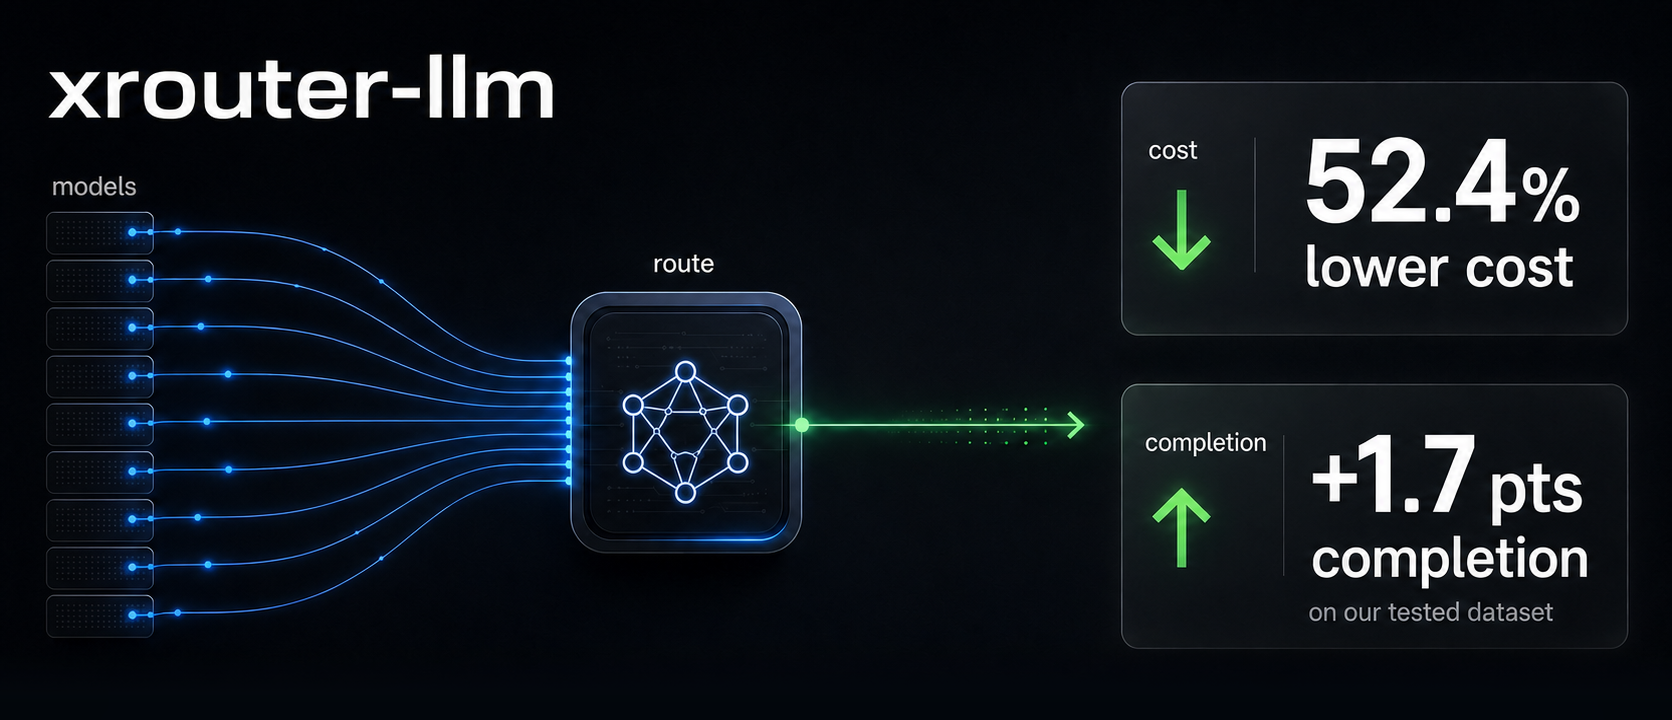
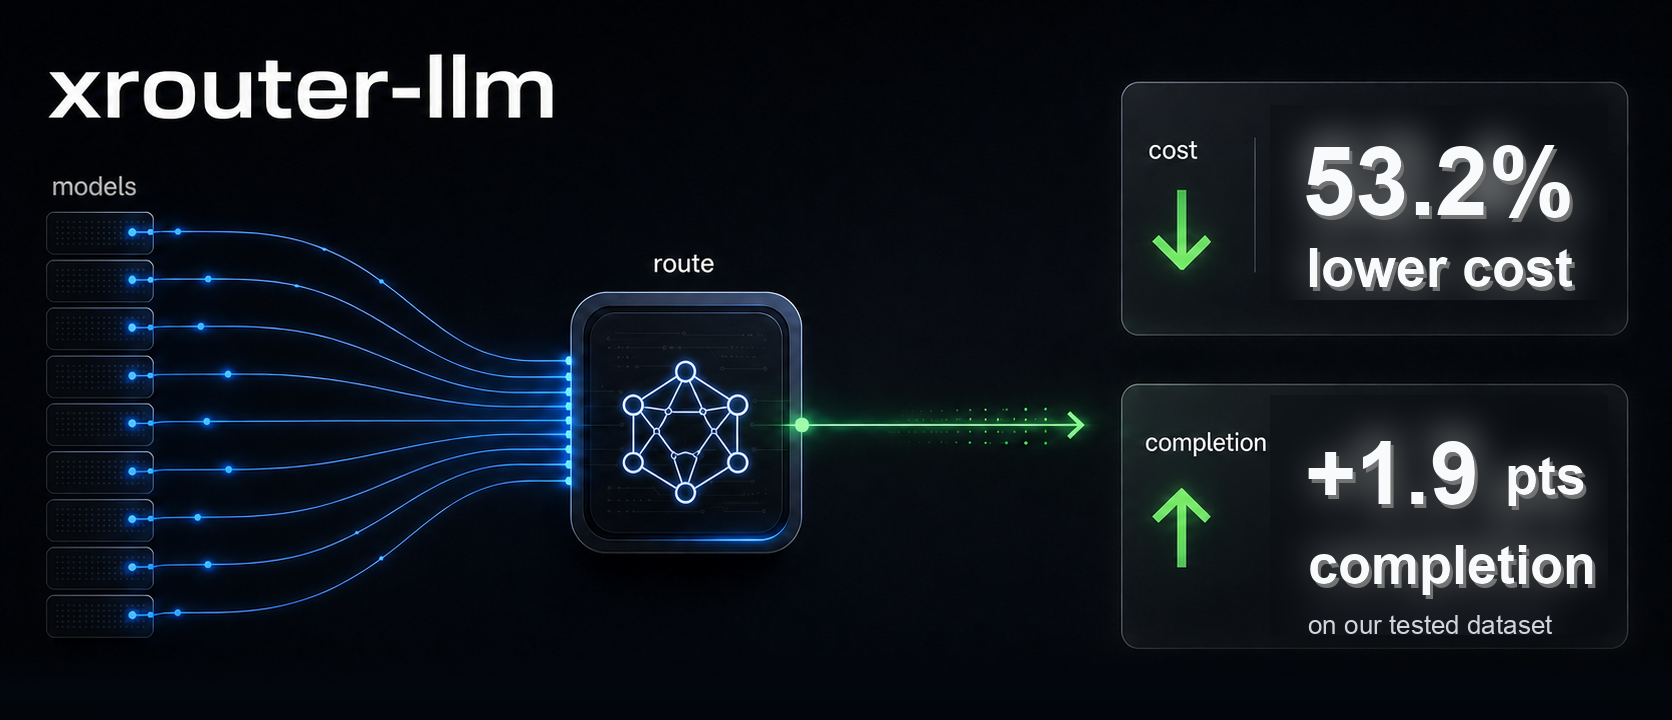
Add xagent labels to router training

Changed region(s): [[0.7775, 0.5806, 0.9641, 0.8861], [0.7775, 0.1833, 0.9641, 0.4278]]

diff --git a/src/xrouter_llm/xagent_labels.py b/src/xrouter_llm/xagent_labels.py
@@ -1,0 +1,123 @@
+from __future__ import annotations
+
+import json
+from pathlib import Path
+from typing import Any, Iterable
+
+from huggingface_hub import hf_hub_download
+
+from xrouter_llm.types import BenchmarkRow
+
+
+DEFAULT_XAGENT_LABEL_REPO = "Xorbits/xagent-xrouter-labels"
+
+XAGENT_LABEL_FILES = {
+    "full": "xagent_openrouter_official_candidates_100_4models.public.jsonl",
+    "train80": "xagent_openrouter_official_candidates_100_4models_train80.public.jsonl",
+    "holdout20": "xagent_openrouter_official_candidates_100_4models_holdout20.public.jsonl",
+    "sample": "xagent_openrouter_official_sample.public.jsonl",
+}
+
+
+def load_xagent_openrouter_labels(
+    source: str | Path = DEFAULT_XAGENT_LABEL_REPO,
+    *,
+    split: str = "full",
+) -> list[BenchmarkRow]:
+    """Load scrubbed xagent routing labels from a local JSONL file or HF dataset.
+
+    The public HF dataset currently contains plain JSONL files. Loading through
+    ``huggingface_hub`` keeps the dependency surface small and avoids relying on
+    a generated datasets schema.
+    """
+
+    path = Path(source).expanduser()
+    if path.exists():
+        return _load_xagent_jsonl(path)
+
+    repo_id, resolved_split = _parse_hf_source(str(source), split=split)
+    filename = XAGENT_LABEL_FILES.get(resolved_split, resolved_split)
+    downloaded = hf_hub_download(repo_id, filename, repo_type="dataset")
+    return _load_xagent_jsonl(Path(downloaded))
+
+
+def _parse_hf_source(source: str, *, split: str) -> tuple[str, str]:
+    if ":" not in source:
+        return source, split
+
+    repo_id, maybe_split = source.rsplit(":", 1)
+    if "/" not in maybe_split:
+        return repo_id, maybe_split
+    return source, split
+
+
+def _load_xagent_jsonl(path: Path) -> list[BenchmarkRow]:
+    output: list[BenchmarkRow] = []
+    for line_number, record in _iter_jsonl(path):
+        score = _score(record, line_number=line_number)
+        prompt = str(record.get("prompt") or "")
+        model_id = str(record.get("candidate_model") or "")
+        if not prompt:
+            raise ValueError(f"Missing prompt in xagent label line {line_number}")
+        if not model_id:
+            raise ValueError(f"Missing candidate_model in xagent label line {line_number}")
+
+        prompt_sha = record.get("prompt_sha256")
+        prompt_id = f"xagent:{prompt_sha}" if prompt_sha else _fallback_prompt_id(record)
+        output.append(
+            BenchmarkRow(
+                prompt_id=prompt_id,
+                prompt=prompt,
+                model_id=model_id,
+                score=score,
+                cost_usd=_usage_cost(record.get("candidate_usage")),
+                task=f"xagent:{record.get('category') or 'unknown'}",
+            )
+        )
+    if not output:
+        raise ValueError(f"No xagent labels loaded from {path}")
+    return output
+
+
+load_xagent_labels = load_xagent_openrouter_labels
+
+
+def _iter_jsonl(path: Path) -> Iterable[tuple[int, dict[str, Any]]]:
+    with path.open("r", encoding="utf-8") as file:
+        for line_number, line in enumerate(file, start=1):
+            line = line.strip()
+            if not line:
+                continue
+            try:
+                value = json.loads(line)
+            except json.JSONDecodeError as exc:
+                raise ValueError(f"Invalid xagent JSONL at line {line_number}: {exc}") from exc
+            if not isinstance(value, dict):
+                raise ValueError(f"Invalid xagent JSONL at line {line_number}: expected object")
+            yield line_number, value
+
+
+def _score(record: dict[str, Any], *, line_number: int) -> float:
+    judge = record.get("judge")
+    if not isinstance(judge, dict) or judge.get("score") is None:
+        raise ValueError(f"Missing judge.score in xagent label line {line_number}")
+    score = float(judge["score"])
+    if not 0.0 <= score <= 1.0:
+        raise ValueError(f"judge.score must be in [0, 1] at line {line_number}: {score}")
+    return score
+
+
+def _fallback_prompt_id(record: dict[str, Any]) -> str:
+    event_id = record.get("event_id", "unknown")
+    end_event_id = record.get("end_event_id", "unknown")
+    category = record.get("category", "unknown")
+    return f"xagent:{event_id}:{end_event_id}:{category}"
+
+
+def _usage_cost(usage: object) -> float | None:
+    if not isinstance(usage, dict):
+        return None
+    value = usage.get("cost")
+    if value is None:
+        return None
+    return float(value)

diff --git a/tests/test_xagent_labels.py b/tests/test_xagent_labels.py
@@ -1,0 +1,64 @@
+import json
+
+from xrouter_llm.xagent_labels import load_xagent_openrouter_labels
+
+
+def test_load_xagent_labels_from_local_jsonl(tmp_path) -> None:
+    path = tmp_path / "xagent.public.jsonl"
+    path.write_text(
+        "\n".join(
+            json.dumps(record)
+            for record in [
+                {
+                    "prompt_sha256": "abc123",
+                    "prompt": "Current user request:\nhello",
+                    "candidate_model": "google/gemini-2.5-flash-lite",
+                    "candidate_usage": {"cost": 0.001},
+                    "category": "skill",
+                    "judge": {"score": 0.75, "can_complete": True},
+                },
+                {
+                    "prompt_sha256": "abc123",
+                    "prompt": "Current user request:\nhello",
+                    "candidate_model": "deepseek/deepseek-v4-flash",
+                    "candidate_usage": {"cost": 0.0005},
+                    "category": "skill",
+                    "judge": {"score": 0.25, "can_complete": False},
+                },
+            ]
+        ),
+        encoding="utf-8",
+    )
+
+    rows = load_xagent_openrouter_labels(path)
+
+    assert len(rows) == 2
+    assert {row.prompt_id for row in rows} == {"xagent:abc123"}
+    assert {row.model_id for row in rows} == {
+        "deepseek/deepseek-v4-flash",
+        "google/gemini-2.5-flash-lite",
+    }
+    assert [row.score for row in rows] == [0.75, 0.25]
+    assert rows[0].cost_usd == 0.001
+    assert rows[0].task == "xagent:skill"
+
+
+def test_load_xagent_labels_rejects_unlabeled_candidates(tmp_path) -> None:
+    path = tmp_path / "xagent.public.jsonl"
+    path.write_text(
+        json.dumps(
+            {
+                "prompt_sha256": "abc123",
+                "prompt": "prompt",
+                "category": "skill",
+            }
+        ),
+        encoding="utf-8",
+    )
+
+    try:
+        load_xagent_openrouter_labels(path)
+    except ValueError as exc:
+        assert "Missing judge.score" in str(exc)
+    else:
+        raise AssertionError("expected missing judge.score to fail")

diff --git a/src/xrouter_llm/cli.py b/src/xrouter_llm/cli.py
@@ -65,7 +65,7 @@ def main(argv: list[str] | None = None) -> int:
     sweep_parser.add_argument("--input", default=None)
     sweep_parser.add_argument(
         "--format",
-        choices=["jsonl", "csv", "routerbench-pkl", "llmrouterbench"],
+        choices=["jsonl", "csv", "routerbench-pkl", "llmrouterbench", "xagent-labels"],
         default="jsonl",
     )
     _add_sweep_args(sweep_parser)
@@ -83,7 +83,7 @@ def main(argv: list[str] | None = None) -> int:
     holdout_parser.add_argument("--input", default=None)
     holdout_parser.add_argument(
         "--format",
-        choices=["jsonl", "csv", "routerbench-pkl", "llmrouterbench"],
+        choices=["jsonl", "csv", "routerbench-pkl", "llmrouterbench", "xagent-labels"],
         default="jsonl",
     )
     holdout_parser.add_argument(
@@ -104,7 +104,7 @@ def main(argv: list[str] | None = None) -> int:
     train_irt_parser.add_argument("--input", default=None)
     train_irt_parser.add_argument(
         "--format",
-        choices=["jsonl", "csv", "routerbench-pkl", "llmrouterbench"],
+        choices=["jsonl", "csv", "routerbench-pkl", "llmrouterbench", "xagent-labels"],
         default="llmrouterbench",
     )
     train_irt_parser.add_argument("--benchmark-profiles", default=default_models_dir())
@@ -413,6 +413,14 @@ def _load_dataset(kind: str, path: str, *, args: argparse.Namespace) -> list[obj
 
         return limit_rows_by_prompt(
             load_agent_psychometrics(".", path),
+            max_prompts=args.max_prompts,
+            random_state=args.random_state,
+        )
+    if kind == "xagent-labels":
+        from xrouter_llm.xagent_labels import load_xagent_openrouter_labels
+
+        return limit_rows_by_prompt(
+            load_xagent_openrouter_labels(path),
             max_prompts=args.max_prompts,
             random_state=args.random_state,
         )

diff --git a/src/xrouter_llm/__init__.py b/src/xrouter_llm/__init__.py
@@ -58,6 +58,7 @@ from xrouter_llm.types import (
     RouteDecision,
     UtilityBreakdown,
 )
+from xrouter_llm.xagent_labels import load_xagent_labels, load_xagent_openrouter_labels
 
 __all__ = [
     "BenchmarkRow",
@@ -105,6 +106,8 @@ __all__ = [
     "load_llmrouterbench",
     "load_routerbench_pickle",
     "load_jsonl",
+    "load_xagent_labels",
+    "load_xagent_openrouter_labels",
     "sample_llmrouterbench",
     "split_by_prompt",
 ]

diff --git a/AGENTS.md b/AGENTS.md
@@ -34,8 +34,8 @@ model will usually win raw score while losing the cost objective.
 
 ## Current Data Strategy
 
-The production difficulty model is trained on **three datasets combined**
-(377,997 rows / ~14,364 prompts / 283 subjects):
+The production difficulty model is trained on **four datasets combined**
+(378,397 rows / ~14,463 prompts / 287 subjects):
 
 ```text
 NPULH/LLMRouterBench (350k stream sample)   37 models x ~13,775 prompts, single-turn
@@ -45,20 +45,23 @@ agent-psychometrics Terminal-Bench 2.0      89 tasks x 112 subjects, terminal ag
   data/agentic/terminalbench  (--dataset agentic:agentic/terminalbench)
 agent-psychometrics SWE-bench Verified      500 tasks x 134 subjects, coding agent
   data/agentic/swebench_verified  (task text joined from princeton-nlp/SWE-bench_Verified)
+Xorbits/xagent-xrouter-labels                100 prompts x 4 OpenRouter models, real xagent
+  --dataset xagent-labels:Xorbits/xagent-xrouter-labels:full
 ```
 
-Only the 37 llmrouterbench models have benchmark profiles, so they alone feed
-the capability/combine logistic; the agentic subjects (agent+scaffold combos)
-feed the difficulty axis only. agent-psychometrics swebench_pro (730x14) and
-gso (102x15) are loadable but NOT wired in (they ship no local task text and
-need an external join).
+Only models with benchmark profiles feed the capability/combine logistic: the
+37 llmrouterbench models plus profiled xagent OpenRouter candidates. The
+agent-psychometrics subjects (agent+scaffold combos) feed the difficulty axis
+only. agent-psychometrics swebench_pro (730x14) and gso (102x15) are loadable
+but NOT wired in (they ship no local task text and need an external join).
 
 - agent-psychometrics matrices load via `agentic.py` and the CLI `agentic:`
   dataset kind. **terminalbench** (89x112, local `tasks.jsonl`) and
   **swebench_verified** (500x134, task text joined from
   `princeton-nlp/SWE-bench_Verified`) are wired in; see "Agentic training data".
 - All sources feed the difficulty axis; only the profiled llmrouterbench models
-  feed the capability/combine logistic (agentic subjects have no profile).
+  plus profiled xagent OpenRouter candidates feed the capability/combine
+  logistic (agentic subjects have no profile).
 - RouterBench (`withmartian/routerbench`) is kept as a smaller legacy baseline.
 - `swebench_pro` (730x14), `gso` (102x15) ship no local task text and need an
   external join (not wired yet).
@@ -242,7 +245,8 @@ PYTHONPATH=src python3 -m xrouter_llm.cli train-irt \
   --dataset llmrouterbench:data/raw/llmrouterbench_stream_sample_350k \
   --dataset agentic:agentic/terminalbench \
   --dataset agentic:agentic/swebench_verified \
-  --benchmark-profiles artifacts/profiles/llmrouterbench_350k_profiles_priority_collected.json \
+  --dataset xagent-labels:Xorbits/xagent-xrouter-labels:full \
+  --benchmark-profiles artifacts/profiles/llmrouterbench_350k_profiles_priority_collected.json,src/xrouter_llm/resources/config/models \
   --output artifacts/models/irt_router_350k.joblib
 ```
 
@@ -270,7 +274,8 @@ PYTHONPATH=src python3 -m xrouter_llm.cli train-irt \
   --dataset llmrouterbench:data/raw/llmrouterbench_stream_sample_350k \
   --dataset agentic:agentic/terminalbench \
   --dataset agentic:agentic/swebench_verified \
-  --benchmark-profiles artifacts/profiles/llmrouterbench_350k_profiles_priority_collected.json \
+  --dataset xagent-labels:Xorbits/xagent-xrouter-labels:full \
+  --benchmark-profiles artifacts/profiles/llmrouterbench_350k_profiles_priority_collected.json,src/xrouter_llm/resources/config/models \
   --output artifacts/models/irt_router_350k.joblib
 ```
 
@@ -291,7 +296,8 @@ PYTHONPATH=src python3 -m xrouter_llm.cli train-irt \
   --dataset llmrouterbench:data/raw/llmrouterbench_stream_sample_350k \
   --dataset agentic:agentic/terminalbench \
   --dataset agentic:agentic/swebench_verified \
-  --benchmark-profiles artifacts/profiles/llmrouterbench_350k_profiles_priority_collected.json \
+  --dataset xagent-labels:Xorbits/xagent-xrouter-labels:full \
+  --benchmark-profiles artifacts/profiles/llmrouterbench_350k_profiles_priority_collected.json,src/xrouter_llm/resources/config/models \
   --output artifacts/models/irt_router_350k.joblib
 ```
 
@@ -301,6 +307,8 @@ PYTHONPATH=src python3 -m xrouter_llm.cli train-irt \
   joined from `princeton-nlp/SWE-bench_Verified` `problem_statement` into a local
   `data/agentic/swebench_verified/tasks.jsonl` (regenerate on a fresh checkout
   via `datasets.load_dataset("princeton-nlp/SWE-bench_Verified", split="test")`).
+- **xagent labels** are loaded from `Xorbits/xagent-xrouter-labels` via
+  `xagent_labels.py` and the CLI `xagent-labels:` dataset kind.
 - **swebench_pro** (730x14), **gso** (102x15) ship no local task text and need
   an external join -- not wired yet.
 
@@ -312,12 +320,10 @@ agentic subjects have no
 benchmark profiles, so they feed ONLY the difficulty axis; the capability/combine
 logistic still fits on profiled models.
 
-Limitation (verified): real xagent prompts (e.g. Chinese business + image-gen
-agentic tasks) are NOT covered by SWE-bench/Terminal-Bench either, so they stay
-out-of-distribution and get a near-max (clamped) difficulty. Difficulty is
-clamped to the training range so P never collapses, but the only way to make it
-accurate for a specific task mix is that deployment's own logged
-prompts + outcomes.
+Limitation (verified): the public xagent labels are only a 100-prompt seed. They
+slightly improve the public benchmark headline under a controlled base test set,
+but real deployment accuracy for a specific task mix still needs that
+deployment's own logged prompts + outcomes.
 
 ## Evaluation Rules
 

diff --git a/README.md b/README.md
@@ -3,7 +3,7 @@
 
 # xrouter-llm
 
-<img src="./assets/xrouter-llm-hero-clean.png" alt="xrouter-llm: 52.4% lower cost and +1.7 pts completion on our tested dataset" />
+<img src="./assets/xrouter-llm-hero-clean.png" alt="xrouter-llm: 53.2% lower cost and +1.9 pts completion on our tested dataset" />
 
 </div>
 
@@ -11,8 +11,8 @@ Stop sending every prompt to your most expensive LLM.
 
 `xrouter-llm` is a prompt-aware LLM **routing-decision** service: it predicts
 which models can complete a prompt, then chooses the cheapest model that clears
-the bar. On our tested dataset, it cuts realized cost by **52.4%** while
-improving completion by **+1.7 pts**.
+the bar. On our tested dataset, it cuts realized cost by **53.2%** while
+improving completion by **+1.9 pts**.
 
 It answers "which model should serve this prompt?" and records the choice — it
 does NOT call the underlying LLMs.
@@ -116,10 +116,12 @@ The production difficulty model is trained on **multiple datasets combined**
 | `NPULH/LLMRouterBench` (350k stream sample) | single-turn QA / code / math (22 tasks) | 37 models x ~13.8k prompts | ✅ |
 | agent-psychometrics — Terminal-Bench 2.0 | terminal agent | 89 tasks x 112 subjects | ✅ `--dataset agentic:agentic/terminalbench` |
 | agent-psychometrics — SWE-bench Verified | coding agent | 500 tasks x 134 subjects | ✅ task text joined from `princeton-nlp/SWE-bench_Verified` |
+| `Xorbits/xagent-xrouter-labels` | real xagent internal prompts | 100 prompts x 4 OpenRouter models | ✅ `--dataset xagent-labels:Xorbits/xagent-xrouter-labels:full` |
 | agent-psychometrics — SWE-bench Pro / GSO | coding agent | 730x14 / 102x15 | ⛔ ship no local task text, external join needed |
 
 The current artifact trains on LLMRouterBench 350k **+ Terminal-Bench +
-SWE-bench Verified** (377,997 rows / ~14,364 prompts / 283 subjects). The
+SWE-bench Verified + xagent labels** (378,397 rows / ~14,463 prompts /
+287 subjects). The
 agentic matrices come from
 [agent-psychometrics](https://github.com/dariakryvosheieva/agent-psychometrics)
 (MIT) via `agentic.py`. In `IRTRouter`, only the 37 profiled llmrouterbench
@@ -137,7 +139,8 @@ xrouter-llm train-irt \
   --dataset llmrouterbench:data/raw/llmrouterbench_stream_sample_350k \
   --dataset agentic:agentic/terminalbench \
   --dataset agentic:agentic/swebench_verified \
-  --benchmark-profiles artifacts/profiles/llmrouterbench_350k_profiles_priority_collected.json \
+  --dataset xagent-labels:Xorbits/xagent-xrouter-labels:full \
+  --benchmark-profiles artifacts/profiles/llmrouterbench_350k_profiles_priority_collected.json,src/xrouter_llm/resources/config/models \
   --output artifacts/models/irt_router_350k.joblib
 ```
 